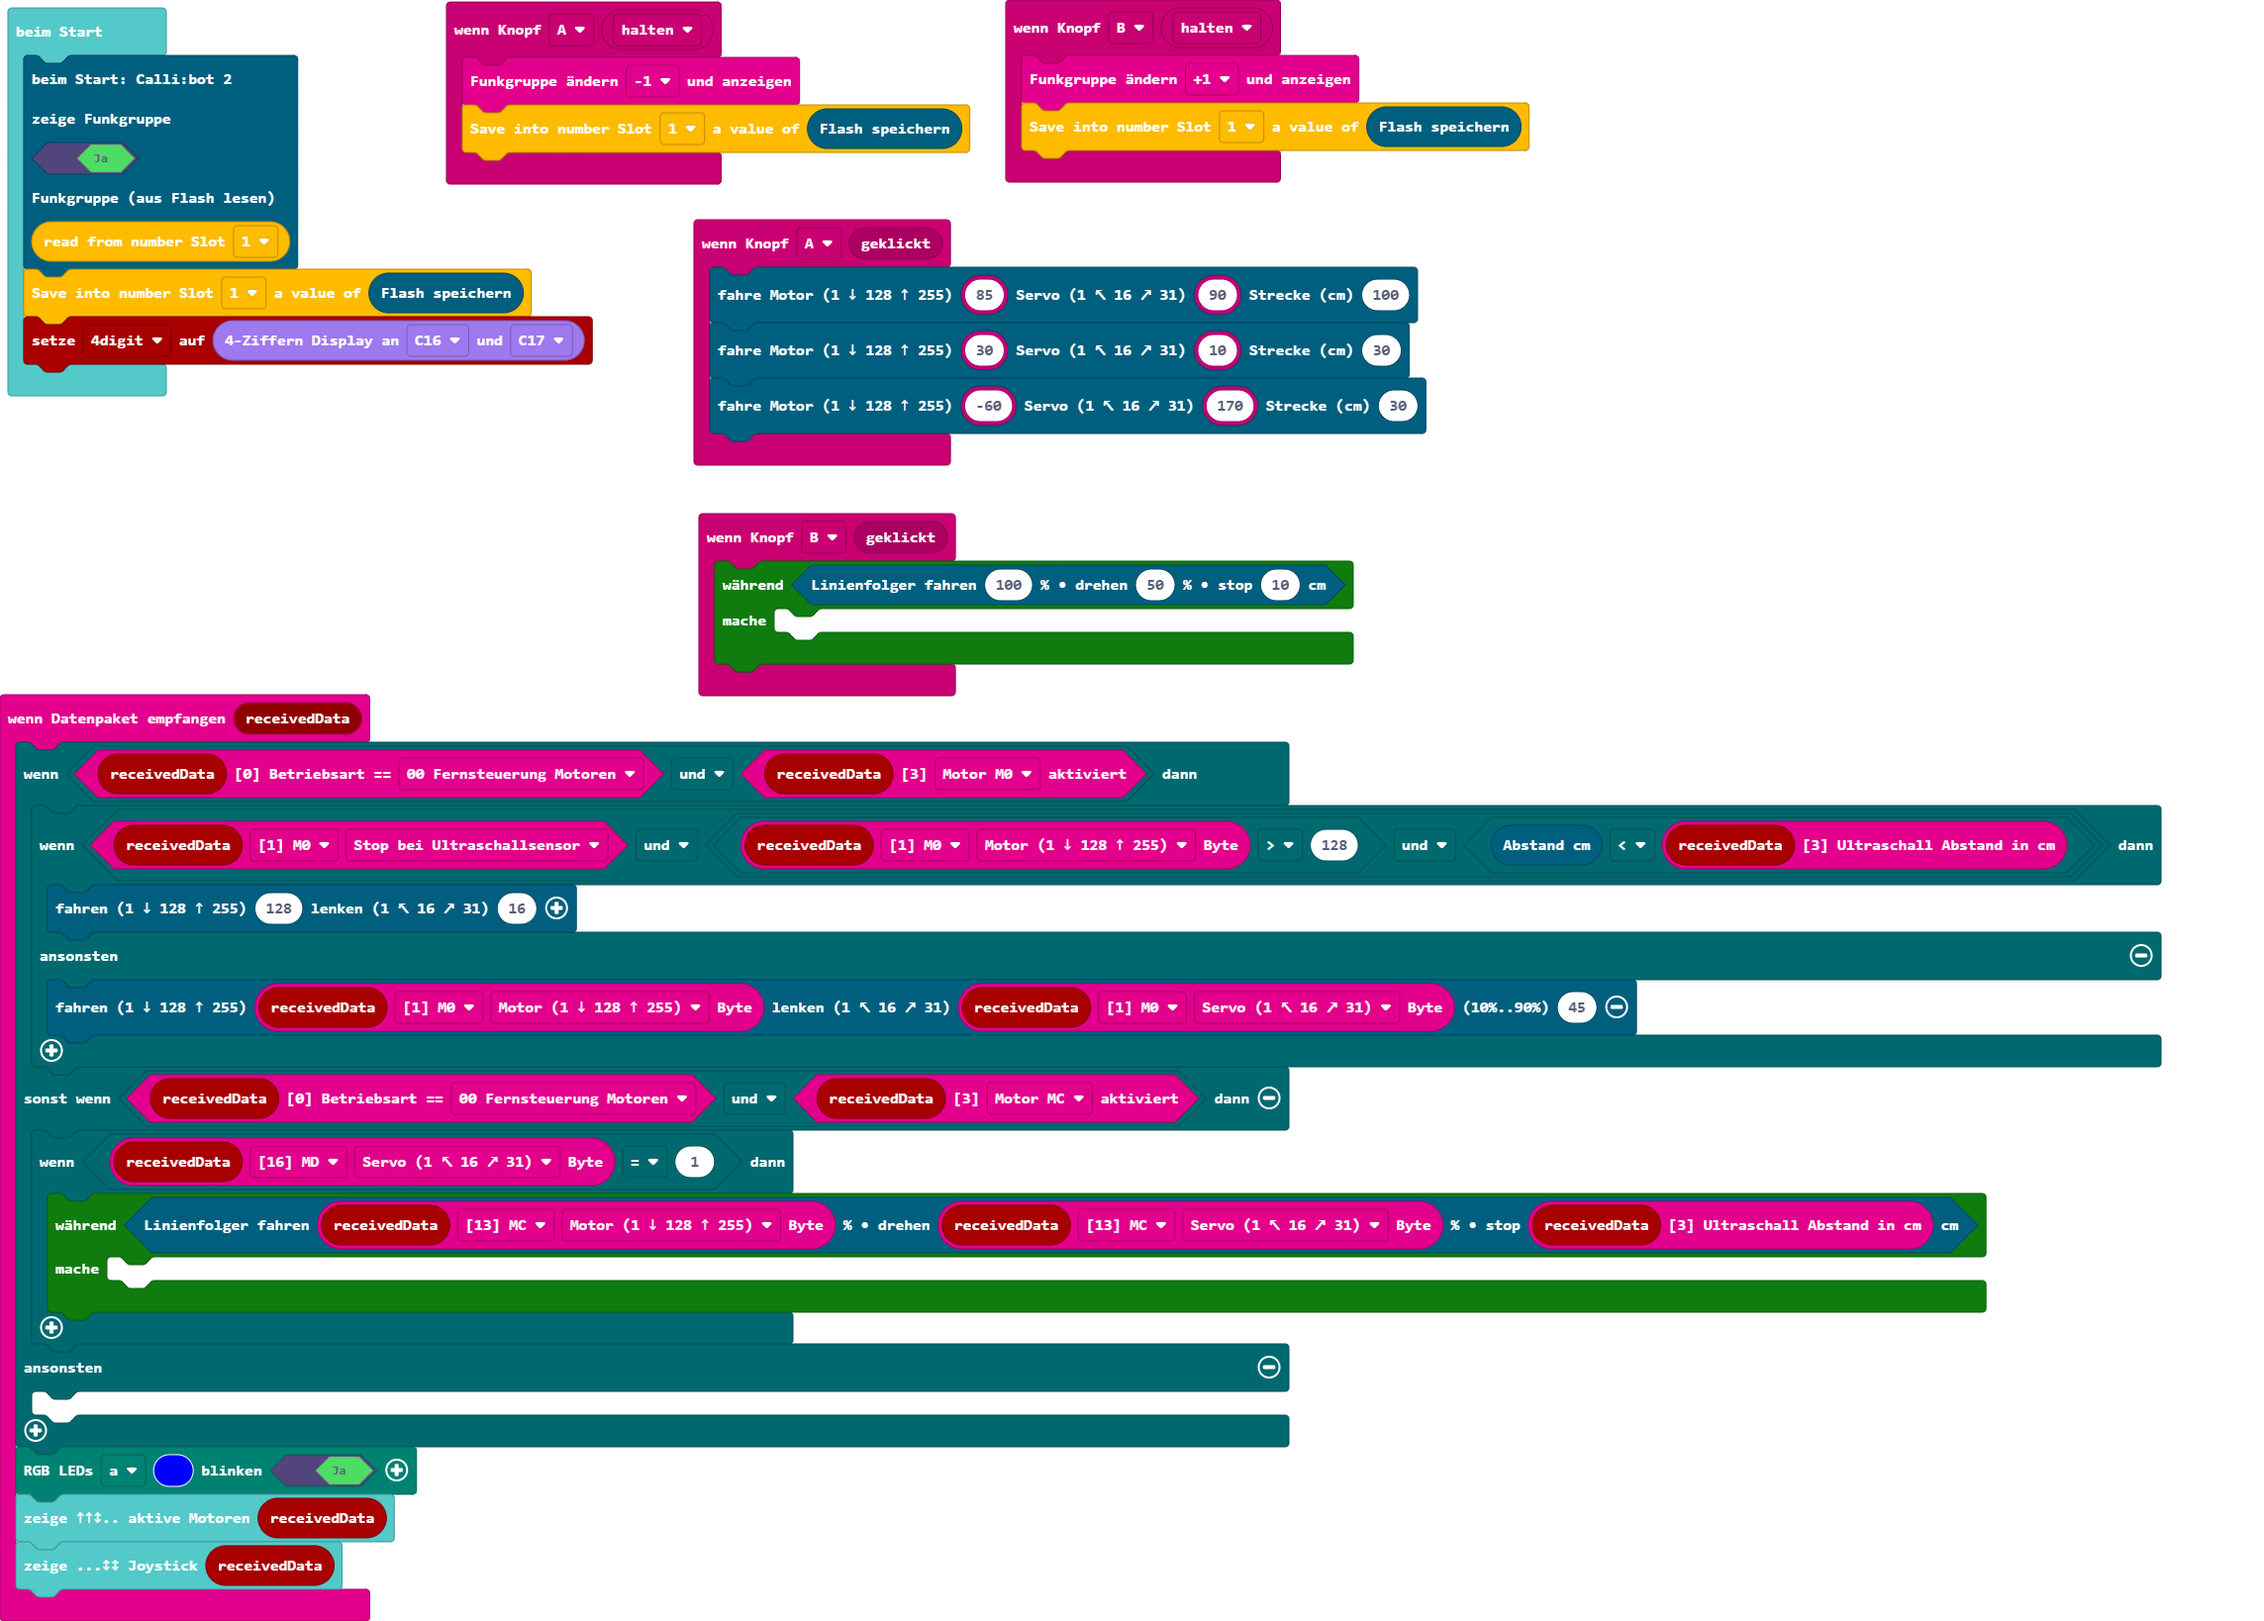
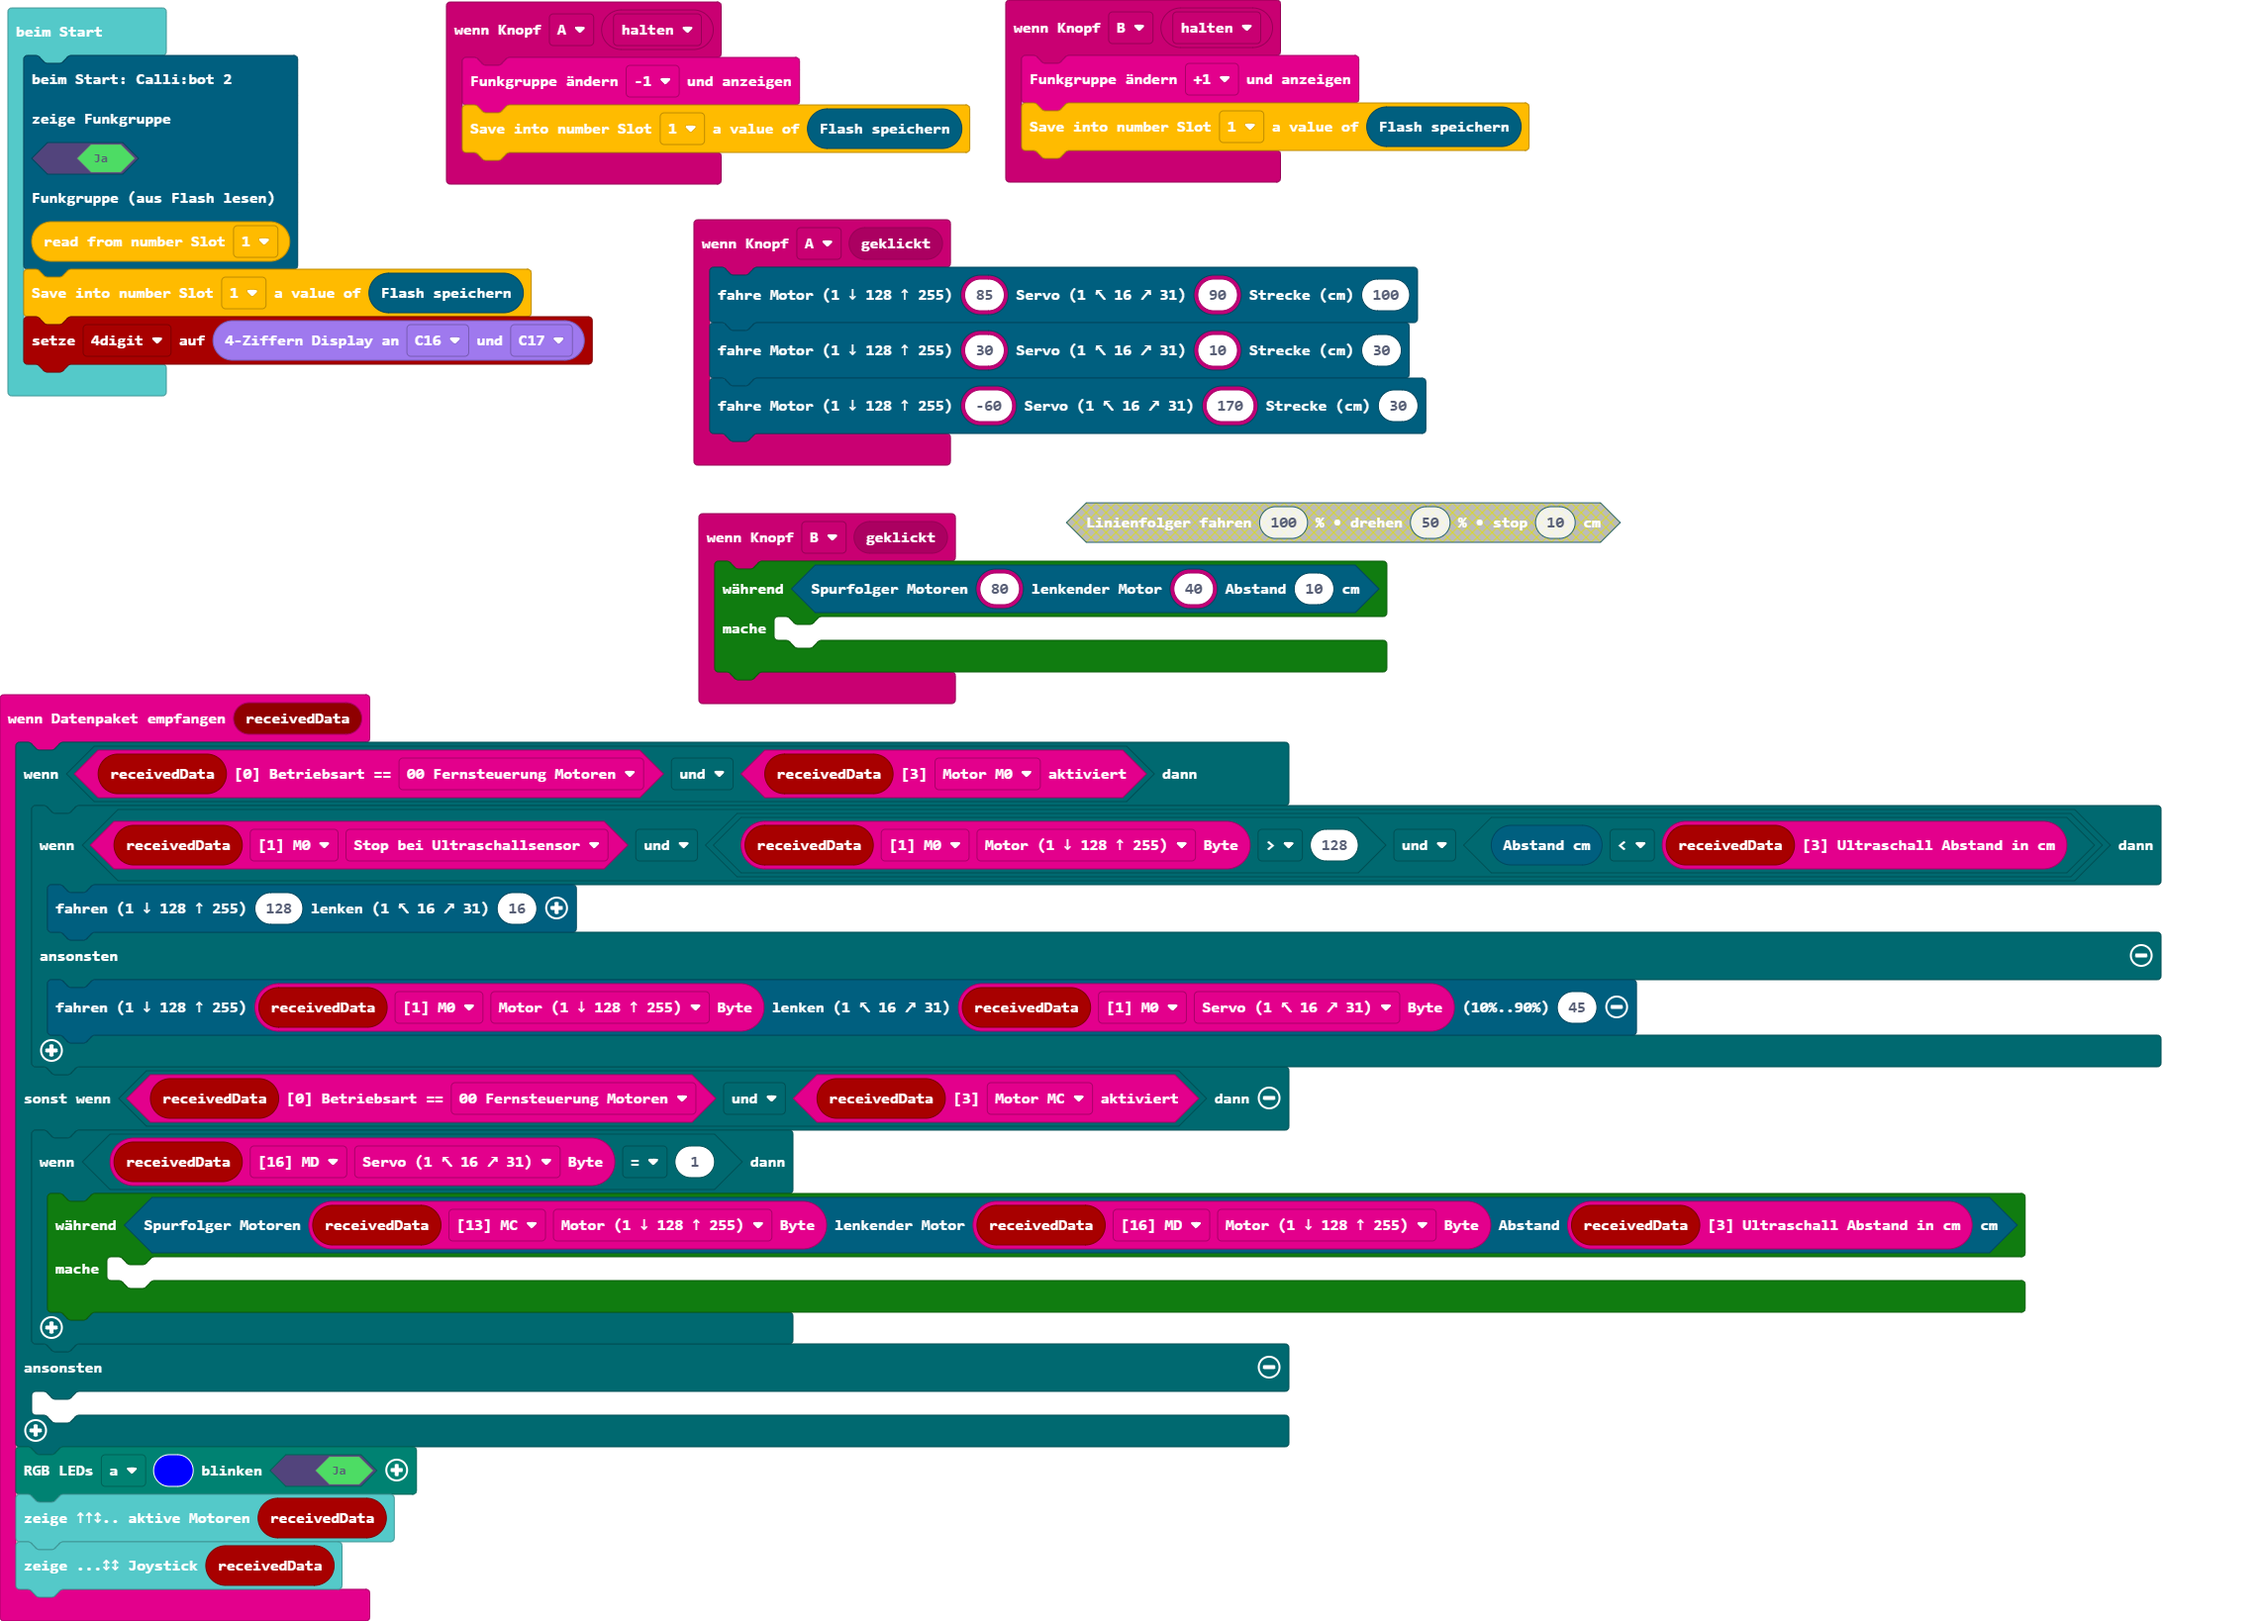
Aktualisiere main.blocks, main.ts

Changed region(s): [[0.3105, 0.3114, 0.714, 0.4359], [0.0621, 0.7161, 0.9003, 0.8095]]

diff --git a/main.ts b/main.ts
@@ -4,7 +4,7 @@ input.onButtonEvent(Button.A, input.buttonEventClick(), function () {
     cb2.fahreStrecke(radio.speedPicker(-60), radio.protractorPicker(170), 30)
 })
 input.onButtonEvent(Button.B, input.buttonEventClick(), function () {
-    while (cb2.seite9Linienfolger(100, 50, 10)) {
+    while (cb2.beispielSpurfolger(radio.speedPicker(80), radio.speedPicker(40), 10)) {
     	
     }
 })
@@ -17,7 +17,7 @@ radio.onReceivedData(function (receivedData) {
         }
     } else if (radio.isBetriebsart(receivedData, radio.e0Betriebsart.p0) && radio.getaktiviert(receivedData, radio.e3aktiviert.mc)) {
         if (radio.getByte(receivedData, radio.eBufferPointer.md, radio.eBufferOffset.b1_Servo) == 1) {
-            while (cb2.seite9Linienfolger(radio.getByte(receivedData, radio.eBufferPointer.mc, radio.eBufferOffset.b0_Motor), radio.getByte(receivedData, radio.eBufferPointer.mc, radio.eBufferOffset.b1_Servo), radio.getAbstand(receivedData))) {
+            while (cb2.beispielSpurfolger(radio.getByte(receivedData, radio.eBufferPointer.mc, radio.eBufferOffset.b0_Motor), radio.getByte(receivedData, radio.eBufferPointer.md, radio.eBufferOffset.b0_Motor), radio.getAbstand(receivedData))) {
             	
             }
         }
